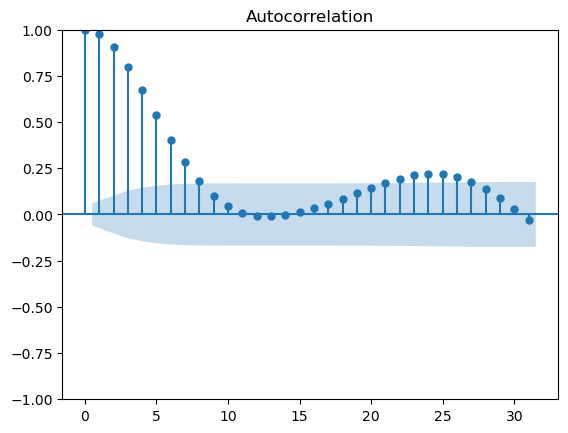
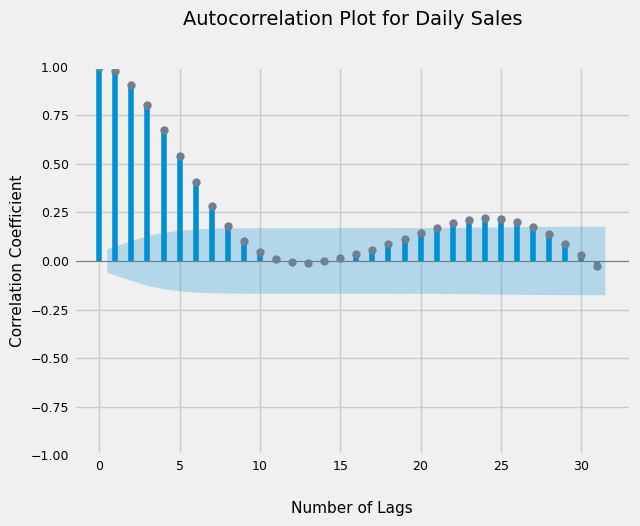
fleshed out writeup and added final image

diff --git a/_posts/2024-09-28-walmart-time-series-sales-prediction.md b/_posts/2024-09-28-walmart-time-series-sales-prediction.md
@@ -21,19 +21,19 @@ Walmart has Weekly Sales data spanning almost 3 years for 45 of its stores in th
 I have been tasked to come up with a method to forecast its sales. These predictions, if accurate and reliable, will be
 extremely  useful to Walmart for several reasons:
 
-1. *Operations & Inventory Optimization*: Predicting daily sales enables Walmart to streamline its operations by 
+1. **Operations & Inventory Optimization**: Predicting daily sales enables Walmart to streamline its operations by 
    optimizing inventory management. Accurate sales forecasts help ensure that the right products are stocked at the 
    right locations, reducing excess inventory and minimizing stockouts. Additionally, these predictions can help 
    Walmart optimize staffing levels, aligning workforce availability with customer traffic and demand, which ensures 
    that  stores are adequately staffed during peak times while minimizing labor costs during slower periods.
 
-2. *Enhanced Customer Experience & Service*: Sales predictions are key to providing a smoother, more reliable customer 
+2. **Enhanced Customer Experience & Service**: Sales predictions are key to providing a smoother, more reliable customer 
    experience. By anticipating demand trends, Walmart can ensure that high-demand products are always available, 
    avoiding the frustration of out-of-stock items and thereby improving customer satisfaction. Additionally, this
    insight allows for more personalized promotions and marketing efforts, targeting customers with relevant offers
    based on anticipated purchasing trends.
 
-3. *Supply Chain Efficiency & Cost Reduction*: Predicting daily sales helps Walmart manage its supply chain more
+3. **Supply Chain Efficiency & Cost Reduction**: Predicting daily sales helps Walmart manage its supply chain more
    effectively by reducing lead times and enabling just-in-time inventory practices. With better forecasts, the company
    can coordinate with suppliers to avoid last-minute rush orders, reducing shipping costs and improving product
    availability. Moreover, sales predictions support more accurate production scheduling for Walmart’s suppliers,
@@ -49,13 +49,13 @@ import pandas as pd
 import matplotlib.pyplot as plt
 
 from sklearn.metrics import mean_squared_error
+from scipy.stats import boxcox
 from statsmodels.tsa.stattools import adfuller
+from statsmodels.tsa.arima.model import ARIMA
+
 from statsmodels.graphics.gofplots import qqplot
 from statsmodels.graphics.tsaplots import plot_acf
 from statsmodels.graphics.tsaplots import plot_pacf
-
-from scipy.stats import boxcox
-from statsmodels.tsa.arima.model import ARIMA
 
 plt.style.use('fivethirtyeight')
 ```
@@ -424,7 +424,7 @@ df.Date.value_counts()
 Everything looks to be in order. There are no missing values. Each store has 45 data points, as does each date.
 Something to note is that standard deviation of the Sales metric is quite high.
 
-# 4) Problem Framing
+# 4) Problem Framing + Data Wrangling & Resampling
 
 We need to do a little work to better frame the problem. I had originally wanted to use a single store to predict 
 weekly sales for, but this number of data points is quite small (45).
@@ -473,7 +473,7 @@ sales_line_plot_df.loc[:, [8, 12, 17, 18, 35, 40]].plot(figsize = (12, 10))
 <img src="{{ site.url }}{{ site.baseurl }}/images/walmart-time-series/output_14_1.png" alt="None">
     
 
-Nice. Let's go ahead and create a new dataframe with only our require stores. Let's also combine the sales of all 
+Nice. Let's go ahead and create a new dataframe with only our required stores. Let's also combine the sales of all 
 stores at each given Date, the values of which are thankfully consistent across stores
 
 ```python
@@ -485,7 +485,7 @@ df_selected_stores.index = pd.to_datetime(df_selected_stores.index)
 df_selected_stores.sort_index(inplace = True)
 ```
 
-Let's do a final check on the combined weekly data for our 5 stores
+Let's do an additional check on the combined "weekly" data for our 5 stores
 ```python
 
 
@@ -494,20 +494,15 @@ df_selected_stores.plot(kind = 'line', figsize = (10, 8))
 
 <img src="{{ site.url }}{{ site.baseurl }}/images/walmart-time-series/output_16_1.png" alt="None">
  
-
-
-Alright, before we do a persistence baseline evaluation, we need to resample the data. This is because the Date 
-values are erratic and don't follow any real pattern (see below)
-
+Great! It looks like we have chosen stores with similar levels of sales. Next we need to think about the granularity of
+the data we want to be working with. The data in its current format, while consistent across Stores, are 
+ultimately erratic and don't follow any real pattern (see below). This means we need to conduct resampling 
 
 ```python
 pd.set_option('display.max_rows', 400)
 
 pd.Series(df_selected_stores.index.unique())
 ```
-
-
-
 
     0     2010-01-10
     1     2010-02-04
@@ -535,15 +530,14 @@ pd.Series(df_selected_stores.index.unique())
 
 
 
-It seems reasonable that a supermarkets sales follow a daily cycle - many customers shop on the weekend, for example. 
-Alternatively we can also create a slice of the data that displays weekly or monthly data.
+We have a few options when it comes to choosing post-resampling granularity. We can manipulate our dataset to
+show daily, weekly, monthly or even quarterly data. However, it seems reasonable that a supermarkets sales follow 
+a daily cycle - many customers shop on the weekend, for example. As a result, I will upsample to Daily data and 
+interpolate views between existing data points using a quadratic function. 
 
-Initially I wanted to have a weekly view. However, the Date values are irregular and this is problematic; in many cases,
-a given week has only one data point, while other weeks have 0 data points and others still have multiple data points.
-Downsampling to weekly data in this case gives us NaNs for many weeks.
-
-As a result, I will upsample to Daily data and interpolate views between existing data points using a quadratic 
-function. If our model's performance is poor on this view, we can always try a monthly framing of the problem.
+I chose a quadratic function instead of a linear one because it looks more natural visually.
+In any case, if our model's performance is poor on this view, we can always try a linear interpolation or even a
+weekly/monthly framing of the problem.
 
 
 ```python
@@ -559,17 +553,27 @@ upsampled_df_selected_stores.rename({'Weekly_Sales':'Daily Sales'}, axis = 1, in
 upsampled_df_selected_stores.plot()
 ```
 
+
 <img src="{{ site.url }}{{ site.baseurl }}/images/walmart-time-series/output_21_1.png" alt="None">
-    
 
 
-Before we do anything else, we need to have a baseline performance to compare our eventual model and predictions to. 
-In time series problem, a persistence or naive forecast is often used for this purpose. Put simply, we will use the 
-value at obs(t-1) as a prediction for the value at obs(t). 
+This looks reasonable. We have at least 4 outliers in sales, all of which occur December across both years.
+The most likely explanations for these are Christmas and New Year's. We also see a slump in the first few days of
+January. Finally, the data seems to be trend-stationary. While the graph shows what looks to be a seasonal component
+to the data, it is merely only cyclical data. To be classed as seasonality, cycles need to be repeated at the 
+same frequency, a condition our graph clearly does not meet.
 
-To do this, we split the data into a training and test set, setting aside 90% of the data for the training set.
+We will return to this in a moment as first, we need a baseline performance to compare our eventual model to. 
+
+# 5) Naive/Persistence Forecast
+ 
+In time series problems, a persistence or naive forecast uses the value at obs(t-1) as a prediction for the value at
+obs(t). It then compares each prediction against each observed value and summarises the skill of the model using
+the root mean squared error (RMSE) measure
+
+To perform this, we split the data into a training and test set, setting aside 90% of the data for the training set.
 The test size is small because we will later need to iterate through our ARIMA model len(test) times. In other words,
-if len(test) is large, it will take a long time for our ARIMA model to fit
+if len(test) is large, it will take a long time for our ARIMA model to fit.
 
 We will then walk forward over the test set, adding each 'new' observation seen in the test set to our training set,
 and using that as the prediction for the next time stamp
@@ -630,7 +634,8 @@ for i in range(20):
     Predicted Value: £5541958 | Actual Value: £5524256
 
 
-The persistence forecast error is only about £46k per day. As a % of the mean sales over the time period, we see that it is only around a 0.8% error
+The persistence forecast error is only about £46k per day. As a % of the mean sales over the time period, we see that 
+it is only around a 0.8% error
 
 Still, this is the target to beat for our model and predictions
 
@@ -645,35 +650,17 @@ rmse / np.mean(X)
     0.007974285431459617
 
 
-
-Let's look at the data more closely
-
-
-```python
-plt.figure(figsize = (12, 6))
-plt.plot(upsampled_df_selected_stores)
-```
+# 6) Testing for Stationarity + Exploring Auto- and Partial Autocorrelation
 
 
+We use the Augmented Dickey-Fuller test to check if our dataset is stationary. This condition is necessary for our
+ARIMA model to perform well on it. If the series is non-stationary, we may need to perform differencing on it by
+subtracting obs(t-1) from obs(t).
 
+The null hypothesis for this test is that the series has unit root, and therefore is non-stationary
 
-    [<matplotlib.lines.Line2D at 0x7fd461da1510>]
-
-
-
-
-    
-![png](output_28_1.png)
-    
-
-
-- At least 4 big outlier values, all of which occur towards the end of the year
-- Seems like there is some seasonal/cyclical behaviour, but it is erratic
-- There does not seem to be a trend in the data
-
-Let's check if the data is stationary using the Augmented Dickey-Fuller test. The null hypothesis for this test is that the series has unit root, and therefore is non-stationary
-
-We see below that the test statistic is very extreme and the p-value is 0. Hence, we reject the null hypothesis - this series is stationary
+We see below that the test statistic is very extreme and the p-value is 0. Hence, we reject the null hypothesis - this 
+series is stationary.
 
 
 ```python
@@ -686,13 +673,21 @@ print('p-value: %.3f' % result[1])
     p-value: 0.000
 
 
-Manually configured ARIMA
+# 6) Manually configured ARIMA
 
-Let's manually configure an ARIMA model using Autocorrelation and Partial Autocorrelation Plots
+Let's manually configure an ARIMA model, which requies an input of 3 parameters:
+- p: the number of lag observations included in the model
+- d: the number of times the raw observations are differenced
+- q: the size of the moving average window
 
-From the below graphs, we see that correlations with up to 7 lagged values are significant. So we can start with value of 7 for the 'p' or Autoregression parameter
+We already know that d = 0 is a good value to start from given that the data is stationary. By Autocorrelation and
+Partial Autocorrelation Plots of the data, we can find suitable values for p and q, respectively.
 
-Additionally, the PACF suggests we can use a value of 4 for the 'q' or Moving Average parameter
+
+## 6.1) Autocorrelation Plot
+
+From the graph below, we see that correlations with up to 7 lagged values are significant. So we can start with value
+of 7 for the 'p' or Autoregression parameter
 
 
 ```python
@@ -700,9 +695,12 @@ plot_acf(upsampled_df_selected_stores);
 ```
 
 
-    
-![png](output_32_0.png)
-    
+<img src="{{ site.url }}{{ site.baseurl }}/images/walmart-time-series/output_32_0.png" alt="None">
+
+
+## 6.2) Partial Autocorrelation Plot
+
+Additionally, the PACF suggests we can use a value of 4 for the 'q' or Moving Average parameter
 
 
 
@@ -710,10 +708,10 @@ plot_acf(upsampled_df_selected_stores);
 plot_pacf(upsampled_df_selected_stores, lags = 15, method = 'ywm');
 ```
 
+<img src="{{ site.url }}{{ site.baseurl }}/images/walmart-time-series/output_33_0.png" alt="None">
+ 
 
-    
-![png](output_33_0.png)
-    
+## 6.3) Train and evaluate ARIMA
 
 
 To fit and evaluate our ARIMA model, we need to execute the same method of walk forward validation as we did with the persistence model. That is to say, we will:
@@ -723,7 +721,8 @@ To fit and evaluate our ARIMA model, we need to execute the same method of walk 
 - add the 'current' value of the test set to the training set
 - retrain the model on the training and repeat, until we have come to the end of the test set
 
-Through trial and error, I have found that large ARIMA values (like 7) result in a Convergence Error. If we reduce the number of lagged values to be included, we overcome this error
+Through trial and error, I have found that large ARIMA values (like 7) result in a Convergence Error. If we reduce the
+number of lagged values to be included, we overcome this.
 
 
 ```python
@@ -776,11 +775,21 @@ for i in range(20):
     Predicted Value: £5529952 | Actual Value: £5524256
 
 
-Wow, we were able to drastically reduce the RMSE compared to the persistence forecast model. In fact, it is a (7289.27 - 45872.02)/45872.02 = 84% reduction in RMSE
+Wow, we were able to drastically reduce the RMSE compared to the persistence forecast model. In fact, it is a 
+(7289.27 - 45872.02)/45872.02 = 84% reduction in RMSE!
 
-However, we might be able to do even better. Above, I manually configured the ARIMA model to be used. We can now take a more analytical approach and perform Grid Search to find the optimal values for p, d and q
+However, we might be able to do even better. Above, I manually configured the ARIMA model to be used. We can now take
+a more analytical approach and perform Grid Search to find the optimal values for p, d and q. This is called a Grid Search.
 
-To do this, I need to wrap my ARIMA code in a function. I then need to define another function that performs grid search, and within this seconf function, I need to call my ARIMA function
+
+# 7) Grid Search for ARIMA Parameters
+To perform GS, I need to wrap my ARIMA code in a function. I then need to define another function that
+iterates through different combinations of p, d and q and calls my ARIMA function to fit and evaluate the current
+iteration of the model.
+
+Unfortunately, while testing this out, my personal machine does not seem suited to running the function as it was 
+running for over an hour without finishing the required loops. However, I am certain that with more computational 
+resources, we could improve the performance of our model even further.
 
 
 ```python
@@ -833,7 +842,5 @@ warnings.filterwarnings("ignore")
 evaluate_models(X, p_values, d_values, q_values)
 ```
 
-
-```python
-
-```
+And that's it! Now we can use our ARIMA model to forecast sales for any given day of the week and, even better, update
+it with data as more of it becomes available. This will lead to better performance in the long run.
